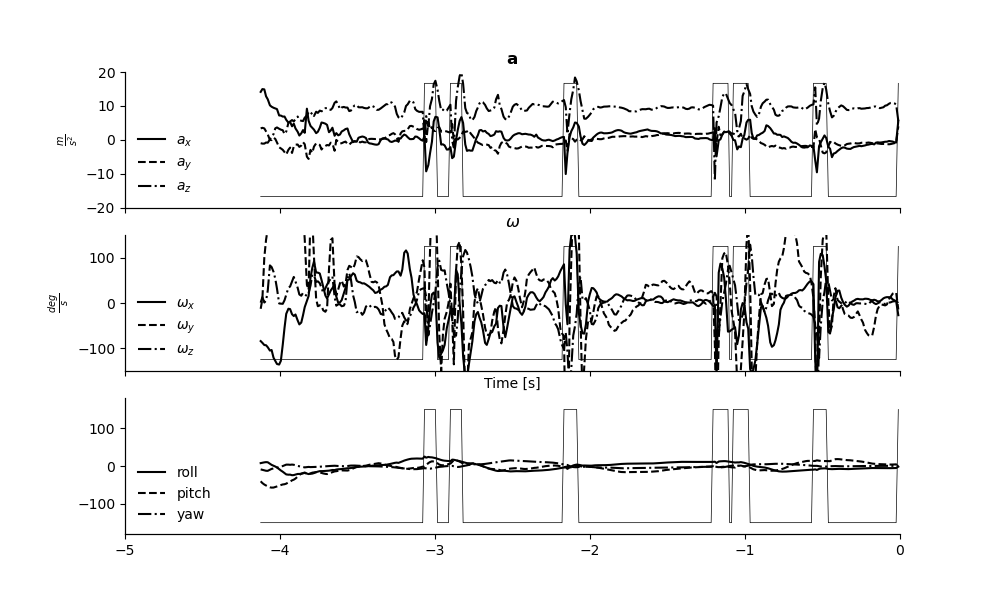
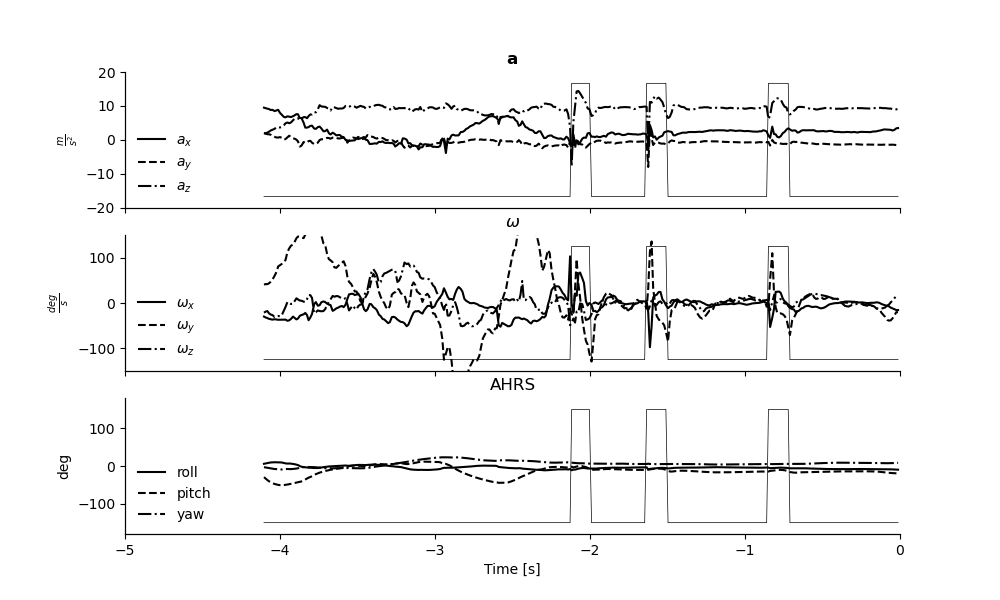
Minor fixes.

diff --git a/src/collect/plot_ser.py b/src/collect/plot_ser.py
@@ -59,7 +59,9 @@ axa.set_title(r'$\mathbf{a}$')
 axa.set_ylabel(r'$\frac{m}{s^2}$')
 axw.set_title(r'$\omega$')
 axw.set_ylabel(r'$\frac{deg}{s}$')
-axw.set_xlabel('Time [s]')
+axahrs.set_title('AHRS')
+axahrs.set_ylabel('deg')
+axahrs.set_xlabel('Time [s]')
 axa.legend(loc=3)
 axw.legend(loc=3)
 axahrs.legend(loc=3)
